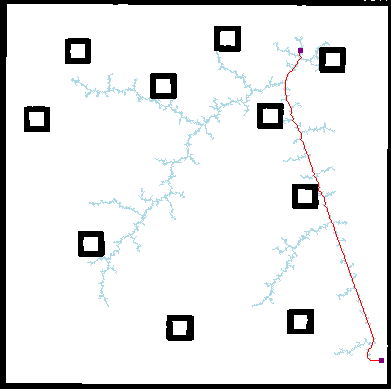
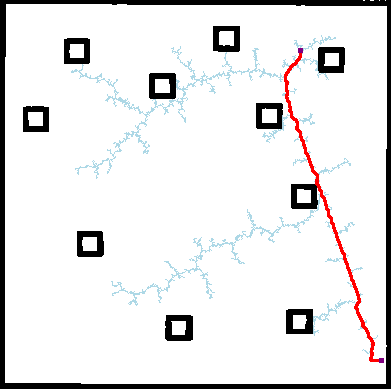
Renamed tools library, set up constants file for scripts and updated documentation

diff --git a/scripts/rpp_viz_cli.cpp b/scripts/rpp_viz_cli.cpp
@@ -10,8 +10,10 @@
 #include "a_star.hpp"
 //#include "d_star_lite.hpp"
 #include "rrt_star.hpp"
+
 #include "time_helper.hpp"
 #include "map_helper.hpp"
+#include "script_constants.hpp"
 
 struct Parameters{
     string algo, map_yaml;
@@ -22,12 +24,6 @@ struct Parameters{
 
 int COMPUTE_TIMEOUT = 600000; //in milliseconds
 vector<AlgoResult> algo_results;
-
-// Constants
-const string BFS_ID = "bfs";
-const string A_STAR_ID = "a-star";
-const string RRT_STAR_ID = "rrt-star";
-const string ALL_ID = "all";
 
 void print_help_menu(){
     cout << "Description: A simple script to test different path planning algorithms.\n";
@@ -174,7 +170,8 @@ void print_results(AlgoResult ar, bool debug, int timeout){
 }
 
 bool is_valid_algo(string name){
-    vector<string> valid_algos = {BFS_ID, A_STAR_ID, RRT_STAR_ID, ALL_ID};
+    vector<string> valid_algos = {ScriptConstants::BFS_ID, ScriptConstants::A_STAR_ID, 
+                                  ScriptConstants::RRT_STAR_ID, ScriptConstants::ALL_ID};
     for(auto algo: valid_algos){
         if(name == algo) return true;
     }
@@ -204,7 +201,7 @@ void run_bfs(Map &m, Graph g, bool debug){
     vector<cell> path = results.first;
     float dist = results.second;
     vector<cell> travelled = bfs.get_travelled_nodes();
-    AlgoResult ar = {BFS_ID, duration, path, travelled, dist};
+    AlgoResult ar = {ScriptConstants::BFS_ID, duration, path, travelled, dist};
     print_results(ar, debug, COMPUTE_TIMEOUT);
     show_map("BFS", m, g.root, g.end, path, travelled, debug);
 }
@@ -222,7 +219,7 @@ void run_astar(Map &m, Graph g, bool debug){
     vector<cell> path = results.first;
     float dist = results.second;
     vector<cell> travelled = as.get_travelled_nodes();
-    AlgoResult ar = {A_STAR_ID, duration, path, travelled, dist};
+    AlgoResult ar = {ScriptConstants::A_STAR_ID, duration, path, travelled, dist};
     print_results(ar, debug, COMPUTE_TIMEOUT);
     show_map("A*", m, g.root, g.end, path, travelled, debug);
 }
@@ -242,7 +239,7 @@ void run_rrt_star(Map &m, Graph g, int max_iter, bool debug){
         path = results.first;
         float dist = results.second;
         travelled = rrt.get_travelled_nodes();
-        AlgoResult ar = {RRT_STAR_ID, duration, path, travelled, dist};
+        AlgoResult ar = {ScriptConstants::RRT_STAR_ID, duration, path, travelled, dist};
         print_results(ar, debug, COMPUTE_TIMEOUT);
     }
     else {
@@ -272,9 +269,12 @@ int main(int argc, char* argv[]){
         else cout << "End node: {" << params.goal.first << "," << params.goal.second << "} is invalid\n"; 
 
         if(g.is_node_valid(params.start) && g.is_node_valid(params.goal)){
-            if(params.algo == BFS_ID || params.algo == ALL_ID) run_bfs(map, g, params.show_debug);
-            if(params.algo == A_STAR_ID || params.algo == ALL_ID) run_astar(map, g, params.show_debug);
-            if(params.algo == RRT_STAR_ID || params.algo == ALL_ID) run_rrt_star(map, g, params.max_iter, params.show_debug);
+            if(params.algo == ScriptConstants::BFS_ID || params.algo == ScriptConstants::ALL_ID) 
+                run_bfs(map, g, params.show_debug);
+            if(params.algo == ScriptConstants::A_STAR_ID || params.algo == ScriptConstants::ALL_ID) 
+                run_astar(map, g, params.show_debug);
+            if(params.algo == ScriptConstants::RRT_STAR_ID || params.algo == ScriptConstants::ALL_ID) 
+                run_rrt_star(map, g, params.max_iter, params.show_debug);
             //if(params.algo == "d-lite" || params.algo == ALL_ID) run_d_star_lite(map, g, params.show_debug);
             if(!is_valid_algo(params.algo)) cout << "Unrecognized algorithm: " << params.algo << endl;
         }

diff --git a/scripts/include/gen_ros_map.hpp b/scripts/include/gen_ros_map.hpp
@@ -4,11 +4,9 @@
 #include <filesystem>
 
 #include "map_data.hpp"
+#include "script_constants.hpp"
 
 namespace fs = std::filesystem;
-
-const int OPEN_SPACE_INT = 0;
-const int OBSTACLE_INT = -1;
 
 struct Parameters{
     string txt_path, title;
@@ -39,8 +37,8 @@ class GenerateMap{
                     for(int col=0; col<map.px_width; col++){
                         getline(ss, value, ',');
                         int pixel = stoi(value);
-                        if(pixel == 0) map.boundaries[row][col] = OPEN_SPACE_INT;
-                        else if(pixel == 1) map.boundaries[row][col] = OBSTACLE_INT;
+                        if(pixel == 0) map.boundaries[row][col] = MapConstants::OPEN_SPACE_INT;
+                        else if(pixel == 1) map.boundaries[row][col] = MapConstants::OBSTACLE_INT;
                     }
                 }
                 map.m_width = (map.resolution+0.005)*map.px_width;
@@ -73,9 +71,9 @@ class GenerateMap{
                     for(int col=0; col<map.px_width; col++){
                         int idx = row*map.px_width + col;
                         uint8_t px;
-                        if (map.boundaries[row][col] == OBSTACLE_INT)         px = obstacle_value;
-                        else if(map.boundaries[row][col] == OPEN_SPACE_INT)   px = highest_value;
-                        else                                                  px = unknown_value;
+                        if (map.boundaries[row][col] == MapConstants::OBSTACLE_INT)         px = obstacle_value;
+                        else if(map.boundaries[row][col] == MapConstants::OPEN_SPACE_INT)   px = highest_value;
+                        else                                                                px = unknown_value;
                         buffer[idx] = char(px);
                     }
                 }

diff --git a/app/src/drawingpanel.cpp b/app/src/drawingpanel.cpp
@@ -142,9 +142,9 @@ void DrawingPanel::show_path(cell start, cell goal, vector<AlgoResult> results){
         }
     }
     path_map.boundaries[start.second][start.first] = MapConstants::NAV_POINT_INT;
-    MapData::inflate_point(path_map, start, AppConstants::PT_SIZE);
+    MapData::inflate_point(path_map, start, MapConstants::POINT_SIZE);
     path_map.boundaries[goal.second][goal.first] = MapConstants::NAV_POINT_INT;
-    MapData::inflate_point(path_map, goal, AppConstants::PT_SIZE);
+    MapData::inflate_point(path_map, goal, MapConstants::POINT_SIZE);
     this->update_map(AppConstants::PATH_MAP_ID);
     delete path_map.boundaries;
 }

diff --git a/scripts/include/script_constants.hpp b/scripts/include/script_constants.hpp
@@ -1,0 +1,19 @@
+#ifndef SCRIPT_CONSTANTS_HPP
+#define SCRIPT_CONSTANTS_HPP
+
+#include <string>
+
+#include "pp_constants.hpp"
+
+using namespace std;
+
+class ScriptConstants {
+    public:
+        // Algorithm
+        inline static const string BFS_ID = "bfs";
+        inline static const string A_STAR_ID = "a-star";
+        inline static const string RRT_STAR_ID = "rrt-star";
+        inline static const string ALL_ID = "all";
+};
+
+#endif // SCRIPT_CONSTANTS_HPP

diff --git a/tests/include/common.hpp b/tests/include/common.hpp
@@ -4,9 +4,9 @@
 
 namespace testing{
     // Constants Values
-    inline static const int COMPUTE_TIMEOUT = 60000; // in milliseconds
-    inline static const float pose_err_thresh = 0.3;
-    inline static const int px_err_thresh = 5;
+    static const int COMPUTE_TIMEOUT = 60000; // in milliseconds
+    static const float pose_err_thresh = 0.3;
+    static const int px_err_thresh = 5;
             
     // Generic Functions
     static Map get_simple_map(){

diff --git a/app/include/app_constants.h b/app/include/app_constants.h
@@ -5,12 +5,13 @@
 
 #include <QString>
 
+#include "pp_constants.hpp"
+
 using namespace std;
 
 class AppConstants {
     public:
         // General
-        static const int PT_SIZE = 5;
         static const int COLOR_PATH_IDX = 3;
 
         // Icons

diff --git a/README.md b/README.md
@@ -2,19 +2,26 @@
 A testing ground for path planning strategies for ROS.
 
 ## Future Work
+- Release 0.1.1
+    - Algorithms
+        - [ ] Probability Roadmap (CLI & GUI)
+    - Bug Fixes/Optimizations
+        - [X] Get eraser to scale with map scaling in graphics view
+        - [X] Disable fullscreen
+    - Testing
+        - [X] Rewrite tests with GTest
+        - [ ] Test Probalility Roadmap (PRM)
 - Release 0.2.0
-    - Command Line Scripts
-        - [ ] Implement D* Lite algorithm
+    - Algorithms
+        - [ ] D* Lite (CLI & GUI)
     - GUI
         - [ ] Change behavior of the pen and eraser to support dragging movements
         - [ ] [Optional] Animate traversal of map and final path
     - Bug Fixes/Optimizations
         - [ ] Add more extensive error handling for GUI
-        - [X] Get eraser to scale with map scaling in graphics view
-        - [X] Disable fullscreen
     - Testing
         - [ ] Test D* Replan with changing map
-        - [X] Rewrite tests with GTest
+
 
 ## Dependencies
 - CMake
@@ -27,7 +34,13 @@ A testing ground for path planning strategies for ROS.
     ```bash
     sudo apt -y install libopencv-dev build-essential libgl1-mesa-dev libgtest-dev qt6-base-dev qt6-tools-dev libqt6svg6-dev
     ```
-2. Build Executables
+2. Set Environment Variables
+    ```bash
+    export QT_VERSION_MAJOR=6
+    export LD_LIBRARY_PATH=$LD_LIBRARY_PATH:/path/to/Qt/<version>/gcc_64/lib
+    export QTDIR=/path/to/Qt/<version>/gcc_64 
+    ```
+3. Build Executables
 
     ```bash
     mkdir build
